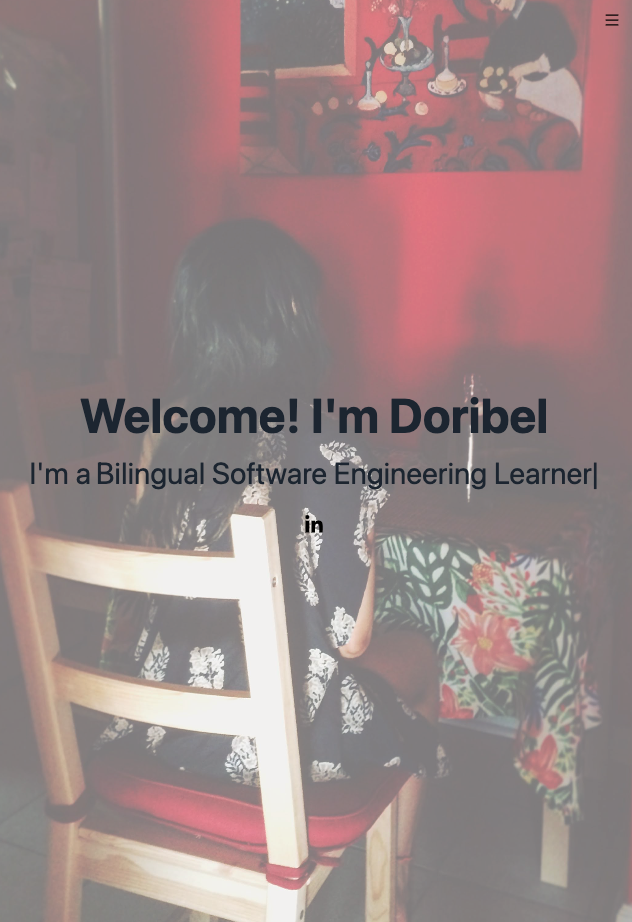
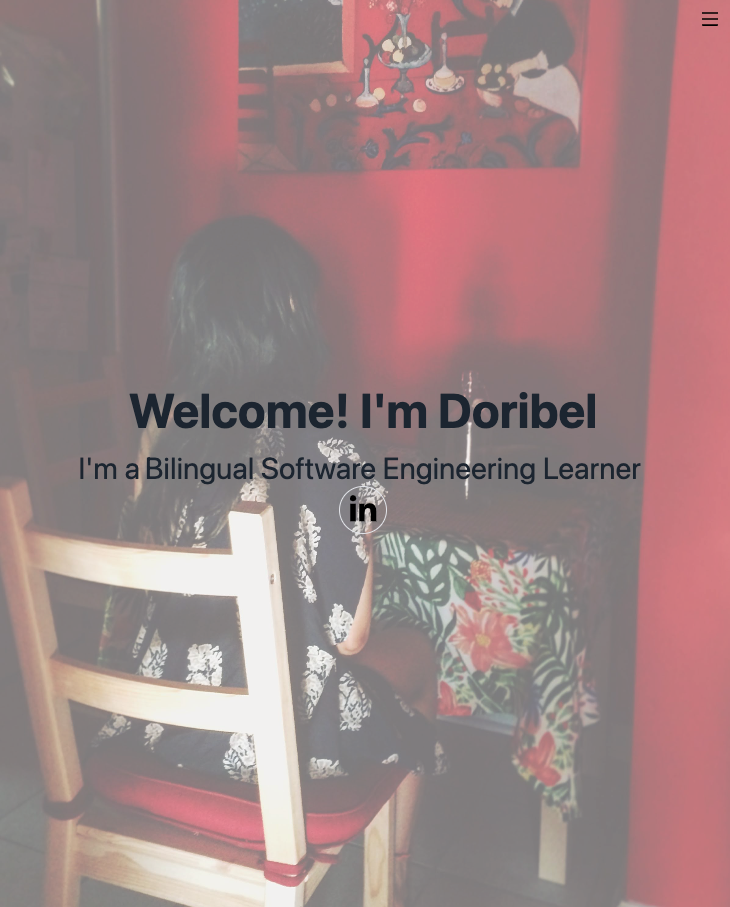
update README Main image

diff --git a/src/components/Sidenav.jsx b/src/components/Sidenav.jsx
@@ -33,7 +33,7 @@ const Sidenav = () => {
 
   return (
     <div className={`${isDarkMode ? 'bg-gray-800' : 'bg-gray-100'} overflow-hidden`}>
-      <AiOutlineMenu
+      <AiOutlineMenu size={20} 
         onClick={handleNav}
         className='absolute top-4 right-4 z-[99] md:hidden'
       />
